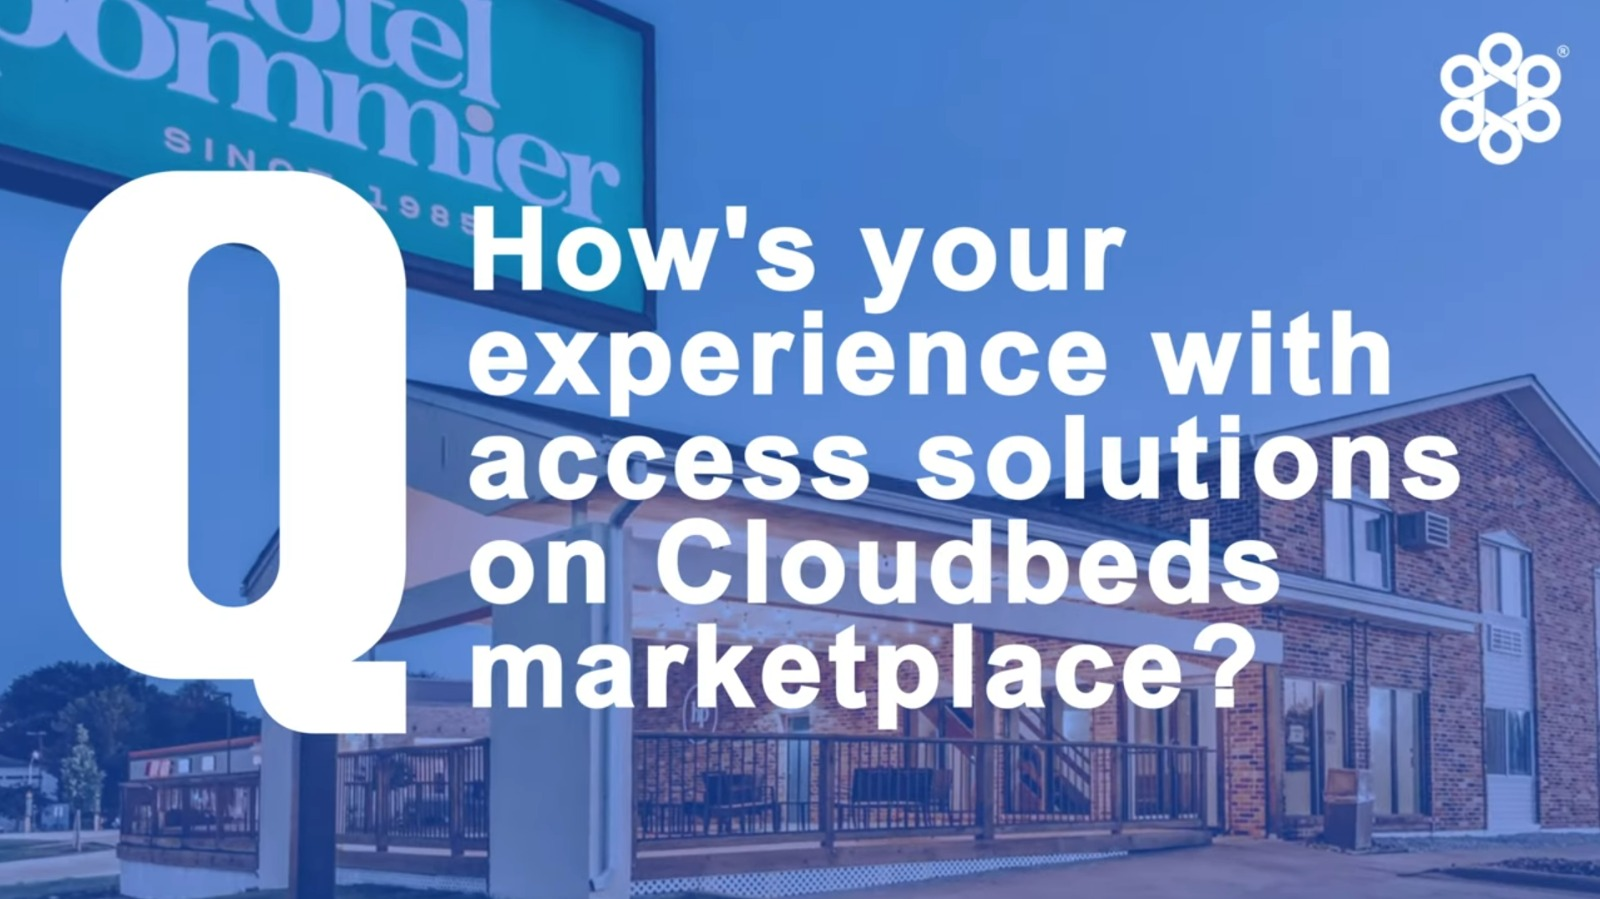
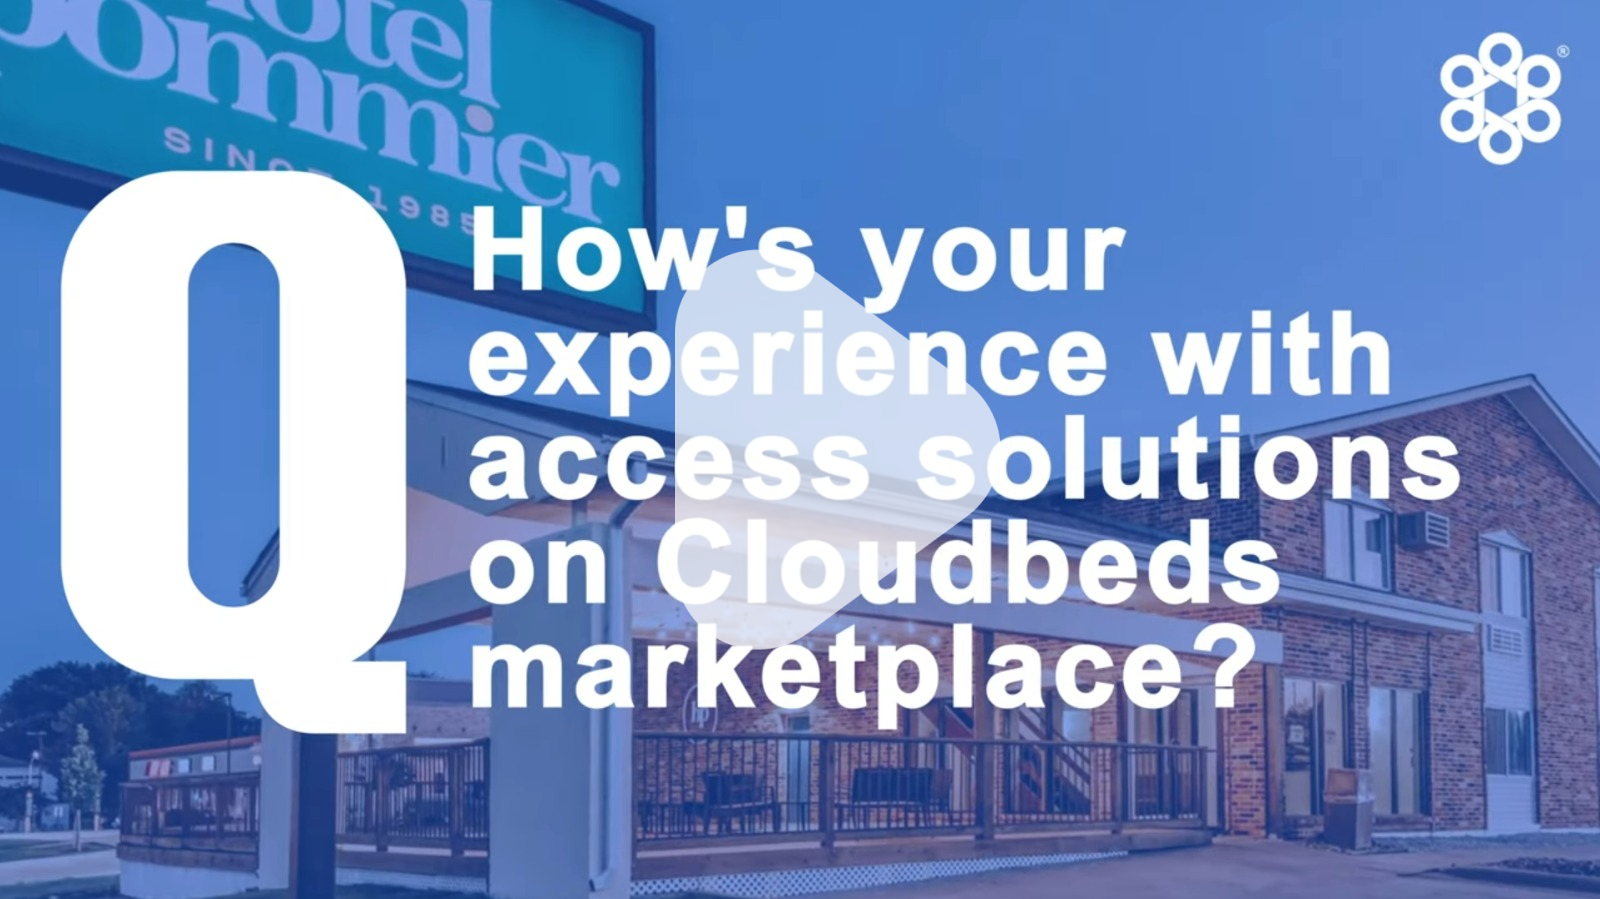
VIDEO-CHANGES

Changed region(s): [[0.4062, 0.2803, 0.625, 0.7475]]

diff --git a/why-us.html b/why-us.html
@@ -12,6 +12,7 @@
 <link href="https://fonts.googleapis.com/css?family=Halant:300,400" rel="stylesheet" type="text/css">
 <link rel="icon" type="image/x-icon" href="./images/favicon.png">
 <link rel='stylesheet' href='https://cdn-uicons.flaticon.com/2.6.0/uicons-regular-rounded/css/uicons-regular-rounded.css'>
+<link rel='stylesheet' href='https://cdn-uicons.flaticon.com/2.6.0/uicons-solid-rounded/css/uicons-solid-rounded.css'>
 <!--[if lt IE 9]>
       <script src="http://html5shim.googlecode.com/svn/trunk/html5.js"></script>
       <script src="https://oss.maxcdn.com/libs/respond.js/1.3.0/respond.min.js"></script>
@@ -159,9 +160,9 @@
   <div class="container">
     <div class="row">
       <div class="col-md-8 col-md-offset-2">
-        <div class="title center mb-50">
-          <h4>devicethread<sup>® </sup></h4>
-          <h2>Why are we different?<span class="red-dot"></span></h2>
+        <div class="title center mb-50 why-us-title">
+          <h4>devicethread<sup>®</sup></h4>
+          <h2>What makes us different?<span class="red-dot"></span></h2>
           <hr>
           <p>devicethread<sup>®</sup> takes a hotel-first approach to keyless access, designed for next-generation accommodations. We support locks of all kinds and brands, allowing you to avoid front desk lines with automated key delivery. Our best-in-class integration covers all reservation scenarios, ensuring a seamless experience.
 
@@ -207,13 +208,13 @@
                   However, Lynx may not be the best choice for hotels, especially larger properties:
                 </p>
                 <br>
-                <div>
+                <div class="mb-5">
                   <i class="fi fi-rr-arrow-small-right"></i>
                   <p>
                     Many hotel customers have experienced frustrations with Lynx, prompting them to seek alternatives.
                   </p>
                 </div>
-                <div>
+                <div class="mt-5">
                   <i class="fi fi-rr-arrow-small-right"></i>
                   <p>
                     Some hotels have even switched to devicethread® mid-season to meet their unique operational needs more effectively.
@@ -365,12 +366,13 @@
     <hr>
   </div>
   <div class="video-card__container">
+    <i class="fi fi-sr-play"></i>
 
     <div class="video-card">
       <div>
         <a href="https://www.youtube.com/watch?v=9lff3neqv0s" target="_blank">
-        <img src="images/DYLAN-ADDS/video-1.jpeg" alt="Video Thumbnail" style="width:100%; max-width:560px; cursor:pointer;">
-      </a>
+          <img src="images/DYLAN-ADDS/video-1.jpeg" alt="Video Thumbnail" style="width:100%; max-width:560px; cursor:pointer;">
+        </a>
         <div>
           <a href="https://www.youtube.com/watch?v=9lff3neqv0s" target="_blank">
             <h3>Seamless Access Across Infrastructure</h3>
@@ -386,14 +388,14 @@
 
     <div class="video-card">
       <div>
-        <a href="https://www.youtube.com/watch?v=9lff3neqv0s" target="_blank">
-        <img src="images/DYLAN-ADDS/video-1.jpeg" alt="Video Thumbnail" style="width:100%; max-width:560px; cursor:pointer;">
-      </a>
+        <a href="https://www.youtube.com/watch?v=eADDfwgcqMQ" target="_blank">
+        <img src="images/DYLAN-ADDS/video-2.jpeg" alt="Video Thumbnail" style="width:100%; max-width:560px; cursor:pointer;">
+        </a>
         <div>
-          <a href="https://www.youtube.com/watch?v=9lff3neqv0s" target="_blank">
+          <a href="https://www.youtube.com/watch?v=eADDfwgcqMQ" target="_blank">
             <h3>Flexibility for Staff Operations</h3>
           </a>
-          <a href="https://www.youtube.com/watch?v=9lff3neqv0s" target="_blank">
+          <a href="https://www.youtube.com/watch?v=eADDfwgcqMQ" target="_blank">
           <p>
             How does devicethread® support staff with flexible, no-change integration?
           </p>
@@ -404,14 +406,14 @@
 
     <div class="video-card">
       <div>
-        <a href="https://www.youtube.com/watch?v=9lff3neqv0s" target="_blank">
-        <img src="images/DYLAN-ADDS/video-1.jpeg" alt="Video Thumbnail" style="width:100%; max-width:560px; cursor:pointer;">
+        <a href="https://www.youtube.com/watch?v=_gZJ2kK65Ac" target="_blank">
+        <img src="images/DYLAN-ADDS/video-3.jpeg" alt="Video Thumbnail" style="width:100%; max-width:560px; cursor:pointer;">
       </a>
         <div>
-          <a href="https://www.youtube.com/watch?v=9lff3neqv0s" target="_blank">
+          <a href="https://www.youtube.com/watch?v=_gZJ2kK65Ac" target="_blank">
             <h3>Simplified, No-Login Guest Access</h3>
           </a>
-          <a href="https://www.youtube.com/watch?v=9lff3neqv0s" target="_blank">
+          <a href="https://www.youtube.com/watch?v=_gZJ2kK65Ac" target="_blank">
           <p>
             See how we streamline guest access management, so your staff doesn’t have to log in.
 
@@ -423,14 +425,14 @@
 
     <div class="video-card">
       <div>
-        <a href="https://www.youtube.com/watch?v=9lff3neqv0s" target="_blank">
-        <img src="images/DYLAN-ADDS/video-1.jpeg" alt="Video Thumbnail" style="width:100%; max-width:560px; cursor:pointer;">
+        <a href="https://www.youtube.com/watch?v=LIrh09rq920" target="_blank">
+        <img src="images/DYLAN-ADDS/video-4.jpeg" alt="Video Thumbnail" style="width:100%; max-width:560px; cursor:pointer;">
       </a>
         <div>
-          <a href="https://www.youtube.com/watch?v=9lff3neqv0s" target="_blank">
+          <a href="https://www.youtube.com/watch?v=LIrh09rq920" target="_blank">
             <h3>Boost Efficiency, Satisfaction & Savings</h3>
           </a>
-          <a href="https://www.youtube.com/watch?v=9lff3neqv0s" target="_blank">
+          <a href="https://www.youtube.com/watch?v=LIrh09rq920" target="_blank">
           <p>
             Learn how devicethread® improves operations, guest experience, and cost-efficiency.
           </p>

diff --git a/css/style.css b/css/style.css
@@ -5174,6 +5174,15 @@ footer.dark p {
     line-height: 20px;
 }
 
+.why-us-title h2 {
+  font-size: 36px;
+  text-align: center;
+}
+
+.why-us-title p {
+  font-size: 16px;
+}
+
 .devicethread-lynx {
   color: #191b1d;
   font-family: 'Montserrat', sans-serif;
@@ -5191,7 +5200,7 @@ footer.dark p {
   display: flex;
   align-items: center;  
 
-  height: 42px;
+  height: 46px;
 }
 
 .devicethread-lynx p {
@@ -5212,7 +5221,7 @@ footer.dark p {
 }
 
 .device-vs-compe p {
-  font-size: 14px;
+  font-size: 16px;
 }
 
 .whydifferent-text div {
@@ -5264,6 +5273,10 @@ footer.dark p {
   height: auto;
 }
 
+.video-card i {
+  color: #00cc77;
+}
+
 .video-card h3 {
   font-size: 12px;
   font-weight: 600;
@@ -5306,6 +5319,14 @@ footer.dark p {
 
 .font-600 {
   font-weight: 600;
+}
+
+.mb-5 {
+  margin-bottom: 5px;
+}
+
+.mt-5 {
+  margin-top: 5px;
 }
 
 @media (max-width: 991px) {
